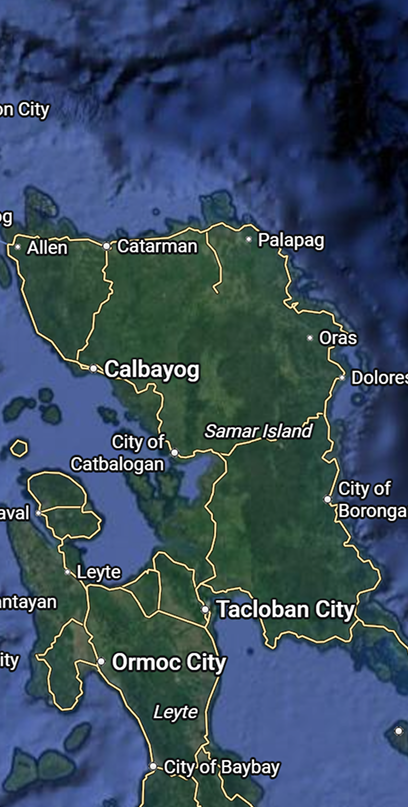
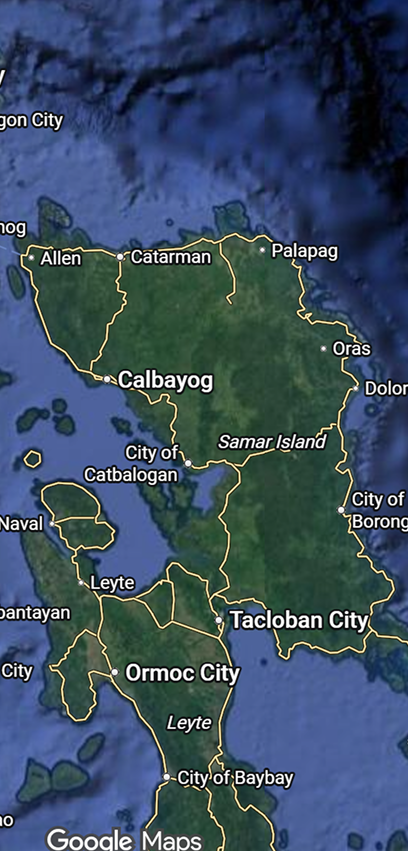
Done Maps Vers2

diff --git a/index.html b/index.html
@@ -236,59 +236,63 @@
         </div>
       </div>
 
-      <!-- MAPS TAB -->
-<!-- MAPS TAB -->
-<div class="tab-panel" data-tab="maps">
-  <div class="map-panel map-fullscreen">
+        <!-- MAPS TAB -->
+      <div class="tab-panel" data-tab="maps">
+        <div class="map-panel map-fullscreen" id="map-viewport">
     
-    <!-- Main Background Map -->
-    <img class="full-satellite-map" id="map-bg-layer" src="!assets/!images/mapsatellite1.png" alt="Satellite Map">
-    
-    <!-- Orange Map Pin -->
-    <div class="map-pin-orange" id="map-pin" style="top: 72%; left: 68%;">
-      <img src="!assets/!images/orangemappin.png" alt="Map Pin">
+        <!-- Movable & Zoomable Wrapper -->
+        <div class="map-transform-container" id="map-transform-container">
+      
+        <!-- Main Background Map -->
+        <img class="full-satellite-map" id="map-bg-layer" src="!assets/!images/mapsatellite1.png" alt="Map View">
+      
+        <!-- Orange Map Pin (Moves & scales with the map) -->
+      <div class="map-pin-orange" id="map-pin" style="top: 72%; left: 68%;">
+        <img src="!assets/!images/orangemappin.png" alt="Map Pin">
+      </div>
+
     </div>
 
-    <!-- Interactive FAB & Horizontal Menu (MUST BE PRESENT) -->
+    <!-- Interactive FAB & Horizontal Menu (Stays fixed on screen) -->
     <div class="map-fab-container" id="map-fab-container">
-      
-      <!-- Menu Options -->
       <div class="map-fab-menu" id="map-fab-menu">
         <button class="fab-menu-item is-selected" type="button" data-layer="satellite" data-img="!assets/!images/mapsatellite1.png" data-top="72%" data-left="68%">
           <img src="!assets/!buttons/defsatellite.png" alt="">
           <span>Satellite</span>
         </button>
-
+        <button class="fab-menu-item" type="button" data-layer="topography" data-img="!assets/!images/maptopography1.png" data-top="38%" data-left="70%">
+          <img src="!assets/!buttons/deftopography.png" alt="">
+          <span>Topography</span>
+        </button>
+        <button class="fab-menu-item" type="button" data-layer="landslide" data-img="!assets/!images/maplandsliderisk1.png" data-top="36%" data-left="51%">
+          <img src="!assets/!buttons/deflandsliderisk.png" alt="">
+          <span>Landslide Risk</span>
+        </button>
         <button class="fab-menu-item" type="button" data-layer="weather" data-img="!assets/!images/mapsweather1.png" data-top="72%" data-left="68%">
           <img src="!assets/!buttons/defcloud.png" alt="">
           <span>Weather</span>
         </button>
-
         <button class="fab-menu-item" type="button" data-layer="evacuation" data-img="!assets/!images/mapsevacuation1.png" data-top="65%" data-left="54%">
           <img src="!assets/!buttons/defevac.png" alt="">
           <span>Evacuation</span>
         </button>
-
         <button class="fab-menu-item" type="button" data-layer="flood" data-img="!assets/!images/mapflood1.png" data-top="36%" data-left="52%">
           <img src="!assets/!buttons/defflood.png" alt="">
           <span>Flood</span>
         </button>
-
         <button class="fab-menu-item" type="button" data-layer="route" data-img="!assets/!images/mapfloodroute1.png" data-top="36%" data-left="52%">
           <img src="!assets/!buttons/defroute.png" alt="">
           <span>Route</span>
         </button>
       </div>
-      
-      <!-- Animated Toggle Button -->
       <button class="fab-map-toggle" id="btn-map-fab" type="button" aria-label="Toggle map options">
         <img src="!assets/!buttons/floatactbutton.png" class="fab-icon-plus" alt="Open Menu">
         <img src="!assets/!buttons/floatxactbutton.png" class="fab-icon-x" alt="Close Menu">
       </button>
     </div>
 
-  </div>
-</div>
+      </div>
+      </div>
 
       <!-- GUIDE TAB PANEL -->
       <div class="tab-panel" data-tab="guide">

diff --git a/!css/style.css b/!css/style.css
@@ -1805,6 +1805,20 @@ a:focus-visible, button:focus-visible, input:focus-visible{
   display: block;
 }
 
+.map-transform-container {
+  position: absolute;
+  inset: 0;
+  width: 100%;
+  height: 100%;
+  transform-origin: center center;
+  cursor: grab;
+  touch-action: none;
+}
+
+.map-transform-container:active {
+  cursor: grabbing;
+}
+
 /* Clean Orange Pin Overlay */
 .map-pin-orange {
   position: absolute;
@@ -1832,49 +1846,70 @@ a:focus-visible, button:focus-visible, input:focus-visible{
   box-shadow: 0 2px 6px rgba(0,0,0,0.15);
 }
 
-/* --- Container & Menu Position Fix --- */
+/* --- Container limits the width so it doesn't go off-screen --- */
 .map-fab-container {
   position: absolute;
   right: 16px;
-  bottom: 75px; /* Moves the button cluster safely above the bottom tab bar */
+  bottom: 75px;
+  width: calc(100% - 32px); /* Spans the screen minus margins */
   display: flex;
   align-items: center;
+  justify-content: flex-end; /* Keeps the red button anchored to the right */
   gap: 10px;
   z-index: 20;
+  pointer-events: none; /* Lets you click the map in the empty space */
 }
 
+/* --- Menu wrapper handles the scroll --- */
 .map-fab-menu {
   display: flex;
   align-items: center;
-  gap: 10px;
+  gap: 14px;
   background: #ffffff;
-  padding: 8px 14px;
+  padding: 8px 16px;
   border-radius: 30px;
-  box-shadow: 0 4px 15px rgba(0,0,0,0.2);
+  box-shadow: 0 4px 15px rgba(0, 0, 0, 0.2);
   
-  /* Hidden state */
+  /* Scrolling Magic */
+  max-width: calc(100% - 66px); /* Leaves room for the 56px FAB + 10px gap */
+  overflow-x: auto; /* Enables horizontal scroll */
+  overflow-y: hidden;
+  -webkit-overflow-scrolling: touch; /* Smooth scrolling on mobile */
+  
+  /* Hide scrollbar */
+  -ms-overflow-style: none;
+  scrollbar-width: none;
+  
+  /* Hidden state animation */
   opacity: 0;
   transform: translateX(20px) scale(0.9);
-  pointer-events: none;
+  transform-origin: right center;
   transition: all 0.3s cubic-bezier(0.175, 0.885, 0.32, 1.275);
 }
 
-/* Visible state when toggled */
+.map-fab-menu::-webkit-scrollbar {
+  display: none; /* Hides scrollbar on Chrome/Safari/Edge */
+}
+
+/* Visible state */
 .map-fab-container.is-active .map-fab-menu {
   opacity: 1;
   transform: translateX(0) scale(1);
-  pointer-events: auto;
+  pointer-events: auto; /* Makes the menu clickable */
 }
 
-/* Menu Items */
+/* --- Menu Items --- */
 .fab-menu-item {
   display: flex;
   flex-direction: column;
   align-items: center;
-  gap: 3px;
+  gap: 4px;
   background: none;
   border: none;
   cursor: pointer;
+  padding: 2px 4px;
+  flex-shrink: 0; /* CRITICAL: Prevents icons from squishing, forcing the container to scroll */
+  min-width: 48px; /* Gives each item a consistent hit area */
 }
 
 .fab-menu-item img { 
@@ -1902,8 +1937,9 @@ a:focus-visible, button:focus-visible, input:focus-visible{
   color: var(--red); 
 }
 
-/* --- Animated Button --- */
+/* --- Animated Button Fix --- */
 .fab-map-toggle {
+  pointer-events: auto; /* Ensures the red button is clickable */
   position: relative;
   width: 56px; 
   height: 56px;

diff --git a/!js/app.js b/!js/app.js
@@ -810,6 +810,95 @@
     }
     });
   });
+
+  // --- Scrollable Menu Wheel & Drag Support ---
+  const fabMenu = document.getElementById('map-fab-menu');
+
+  if (fabMenu) {
+    fabMenu.addEventListener('wheel', (e) => {
+      e.preventDefault();
+      fabMenu.scrollLeft += e.deltaY;
+    });
+
+    let isDown = false;
+    let startX;
+    let scrollLeft;
+
+    fabMenu.addEventListener('mousedown', (e) => {
+      isDown = true;
+      startX = e.pageX - fabMenu.offsetLeft;
+      scrollLeft = fabMenu.scrollLeft;
+    });
+    
+    fabMenu.addEventListener('mouseleave', () => { isDown = false; });
+    fabMenu.addEventListener('mouseup', () => { isDown = false; });
+    
+    fabMenu.addEventListener('mousemove', (e) => {
+      if (!isDown) return;
+      e.preventDefault();
+      const x = e.pageX - fabMenu.offsetLeft;
+      const walk = (x - startX) * 2;
+      fabMenu.scrollLeft = scrollLeft - walk;
+    });
+  }
+  
+  /* --------------------------------- MAP PAN & ZOOM INTERACTION --------------------------------- */
+  const mapViewport = document.getElementById('map-viewport');
+  const mapTransformContainer = document.getElementById('map-transform-container');
+
+  let scale = 1;
+  let pointX = 0;
+  let pointY = 0;
+  let isDragging = false;
+  let startX = 0;
+  let startY = 0;
+
+  function updateMapTransform() {
+    if (mapTransformContainer) {
+      mapTransformContainer.style.transform = `translate(${pointX}px, ${pointY}px) scale(${scale})`;
+    }
+  }
+
+  if (mapViewport && mapTransformContainer) {
+    mapViewport.addEventListener('mousedown', (e) => {
+      if (e.target.closest('.map-fab-container')) return;
+      isDragging = true;
+      startX = e.clientX - pointX;
+      startY = e.clientY - pointY;
+    });
+
+    window.addEventListener('mousemove', (e) => {
+      if (!isDragging) return;
+      e.preventDefault();
+      pointX = e.clientX - startX;
+      pointY = e.clientY - startY;
+      updateMapTransform();
+    });
+
+    window.addEventListener('mouseup', () => {
+      isDragging = false;
+    });
+
+    mapViewport.addEventListener('wheel', (e) => {
+      e.preventDefault();
+      const zoomIntensity = 0.1;
+      if (e.deltaY < 0) {
+        scale *= (1 + zoomIntensity);
+      } else {
+        scale /= (1 + zoomIntensity);
+      }
+
+      scale = Math.max(1, Math.min(scale, 4));
+
+      if (scale === 1) {
+        pointX = 0;
+        pointY = 0;
+      }
+
+      updateMapTransform();
+    }, { passive: false });
+  }
+
   /* ------------------------------- OPENING -------------------------------- */
   // Auto-advance from the opening screen after a short beat, same as tapping.
   setTimeout(() => {
